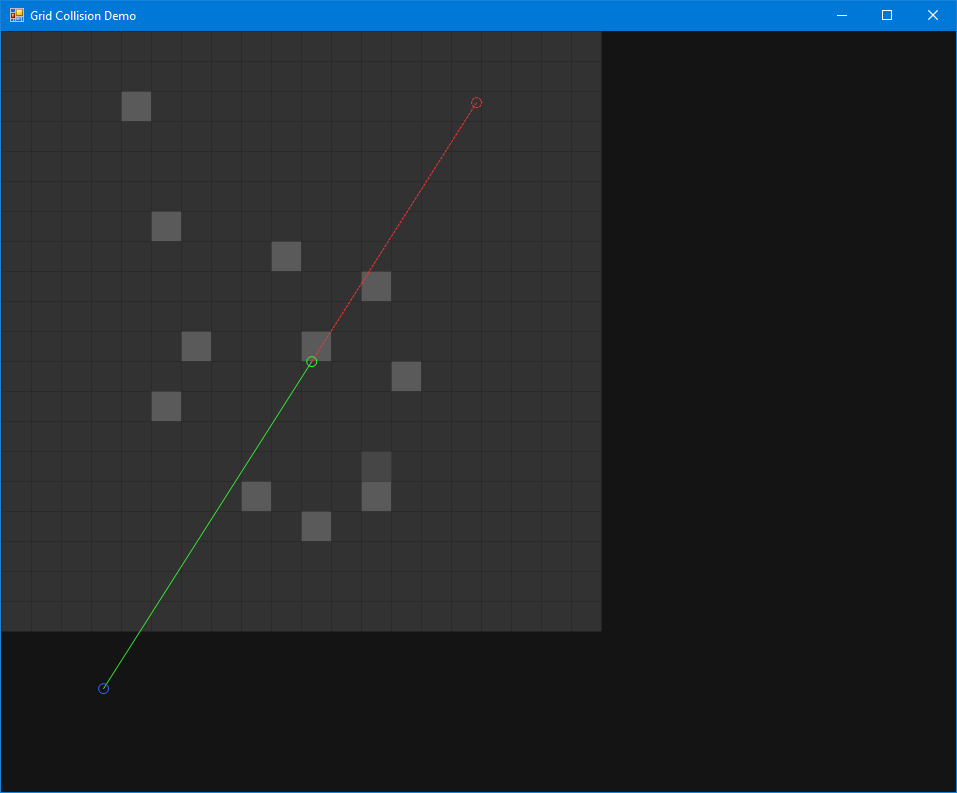
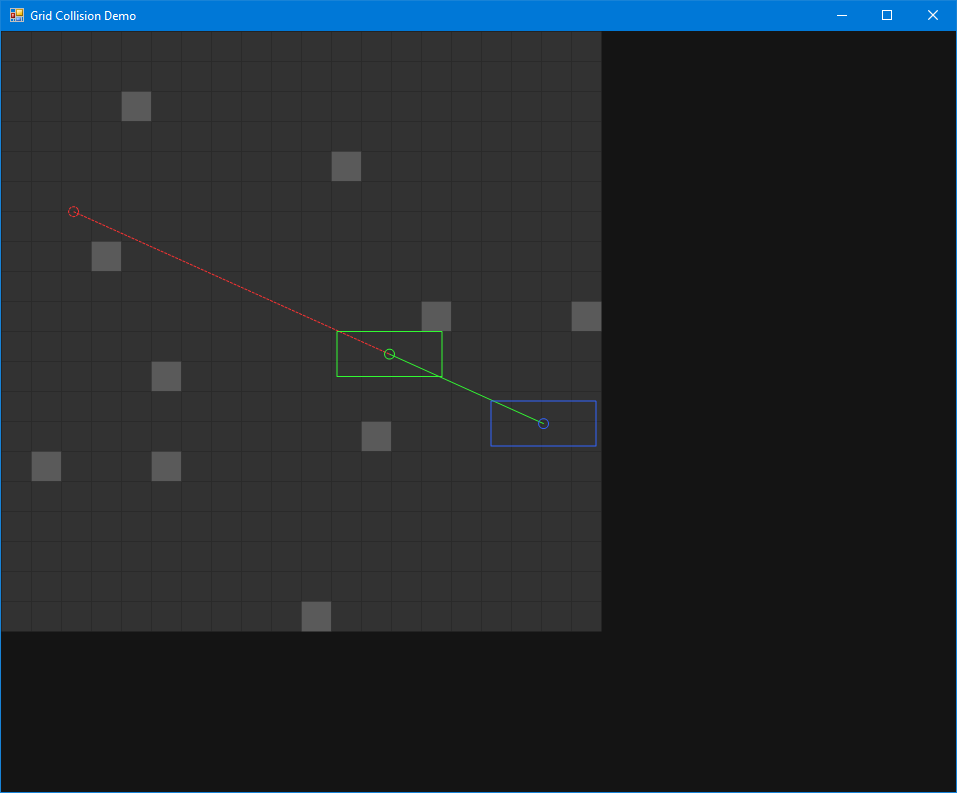
Implemented swept box collision.

diff --git a/Grid.cs b/Grid.cs
@@ -37,6 +37,159 @@ namespace GridCollisionDemo
         }
 
         /// <summary>
+        /// Sweeps the given axis-aligned box from the given starting point to the given ending point, returning whether anything
+        /// was hit and the location of the box when it was hit.
+        /// </summary>
+        /// <param name="startX">The X coordinate of the starting position of the box.</param>
+        /// <param name="startY">The Y coordinate of the starting position of the box.</param>
+        /// <param name="endX">The X coordinate of the position to sweep through.</param>
+        /// <param name="endY">The Y coordinate of the position to sweep through.</param>
+        /// <param name="width">The width of the axis-aligned box.</param>
+        /// <param name="height">The height of the axis-aligned box.</param>
+        /// <param name="hitX">The X position of the box when it first collided.</param>
+        /// <param name="hitY">The Y position of the box when it first collided.</param>
+        /// <returns>True if the given box collided with any filled cells, and false if there was no collision.</returns>
+        public bool SweepBox(float startX, float startY, float endX, float endY, float width, float height, out float hitX, out float hitY)
+        {
+            // Test the starting location
+            // NOTE: This can be skipped if you assume that the box's starting position has already been checked
+            // For example, when moving a character, we might assume that the last known position was not colliding
+            for (int cellY = (int)Math.Floor(startY - height * 0.5f); cellY <= (int)Math.Floor(startY + height * 0.5f); cellY++)
+            {
+                if (cellY >= 0 && cellY < this.Height)
+                {
+                    for (int cellX = (int)Math.Floor(startX - width * 0.5f); cellX <= (int)Math.Floor(startX + width * 0.5f); cellX++)
+                    {
+                        if (cellX >= 0 && cellX < this.Width && this.GetCell(cellX, cellY).Filled)
+                        {
+                            hitX = startX;
+                            hitY = startY;
+                            return true;
+                        }
+                    }
+                }
+            }
+
+            // Determine the direction of travel
+            // We don't use Math.Sign here because when the difference is zero, we still need a direction
+            // to choose which corner of the box to use.
+            int xdir = (endX - startX >= 0) ? 1 : -1;
+            int ydir = (endY - startY >= 0) ? 1 : -1;
+
+            // Determine the location of the corner in the direction of travel
+            // Then, determine which cell it will end up in and increment until we get there.
+            float cornerX = startX + width * 0.5f * xdir;
+            float cornerY = startY + height * 0.5f * ydir;
+            int cornerCellX = (int)Math.Floor(cornerX); // Which cell the corner is currently in
+            int cornerCellY = (int)Math.Floor(cornerY); // Which cell the corner is currently in
+            int endCellX = (int)Math.Floor(endX + width * 0.5f * xdir); // Which cell the corner will end up in
+            int endCellY = (int)Math.Floor(endY + height * 0.5f * ydir); // Which cell the corner will end up in
+
+            float dy; // The slope, or, how far in the y we move for each 1 unit of x
+            if (endX != startX)
+            {
+                dy = (endY - startY) / (endX - startX);
+            }
+            else
+            {
+                dy = Single.PositiveInfinity;
+            }
+
+            float dx; // How far in the x we move for each 1 unit of y
+            if (endY != startY)
+            {
+                dx = (endX - startX) / (endY - startY);
+            }
+            else
+            {
+                dx = Single.PositiveInfinity;
+            }
+
+            // Determine how far it will be until we hit the next cell in the X direction
+            int nextX = xdir >= 0 ? (int)Math.Floor(cornerX + 1.0f) : (int)Math.Floor(cornerX);
+            float stepX = nextX - cornerX; // How far in X to the next X coordinate
+            float toNextX = (float)Math.Sqrt(stepX * stepX + (stepX * dy) * (stepX * dy)); // How far along the line to the next X coordinate
+
+            // Determine how far it will be until we hit the next cell in the Y direction
+            int nextY = ydir >= 0 ? (int)Math.Floor(cornerY + 1.0f) : (int)Math.Floor(cornerY);
+            float stepY = nextY - cornerY; // How far in Y to the next Y coordinate
+            float toNextY = (float)Math.Sqrt(stepY * stepY + (stepY * dx) * (stepY * dx)); // How far along the line to the next Y coordinate
+
+            // Keep stepping until the corner reaches the destination cell
+            while (cornerCellX != endCellX || cornerCellY != endCellY)
+            {
+                // Determine whether the next X value is closer, or the next Y value
+                if (toNextX < toNextY)
+                {
+                    // Move to the next X value
+                    cornerCellX += xdir;
+                    cornerX += stepX;
+                    cornerY += stepX * dy;
+
+                    // Adjust our movement plan along the other axis
+                    stepY -= stepX * dy; // Convert how far we moved in X to how far we moved in Y
+                    toNextY -= toNextX;
+
+                    // Calculate for the new next X value
+                    nextX = cornerCellX + xdir;
+                    stepX = 1.0f * xdir;
+                    toNextX = (float)Math.Sqrt(1.0f * 1.0f + dy * dy);
+
+                    // Check the newly-occupied column of cells for collision
+                    int cellCount = 1 + Math.Abs(cornerCellY - (int)Math.Floor(cornerY - height * ydir));
+                    for (int i = 0; i < cellCount; i++)
+                    {
+                        int y = cornerCellY - i * ydir;
+                        if (cornerCellX >= 0 && cornerCellX < this.Width
+                            && y >= 0 && y < this.Height
+                            && this.GetCell(cornerCellX, y).Filled)
+                        {
+                            hitX = cornerX - width * 0.5f * xdir;
+                            hitY = cornerY - height * 0.5f * ydir;
+                            return true;
+                        }
+                    }
+                }
+                else
+                {
+                    // Move to the next Y value
+                    cornerCellY += ydir;
+                    cornerY += stepY;
+                    cornerX += stepY * dx;
+
+                    // Adjust our movement plan along the other axis
+                    stepX -= stepY * dx;
+                    toNextX -= toNextY;
+
+                    // Calculate for the next next Y value
+                    nextY = cornerCellY + ydir;
+                    stepY = 1.0f * ydir;
+                    toNextY = (float)Math.Sqrt(dx * dx + 1.0f * 1.0f);
+
+                    // Check the newly-occupied row of cells for collision
+                    int cellCount = 1 + Math.Abs(cornerCellX - (int)Math.Floor(cornerX - width * xdir));
+                    for (int i = 0; i < cellCount; i++)
+                    {
+                        int x = cornerCellX - i * xdir;
+                        if (cornerCellY >= 0 && cornerCellY < this.Height
+                            && x >= 0 && x < this.Width
+                            && this.GetCell(x, cornerCellY).Filled)
+                        {
+                            hitX = cornerX - width * 0.5f * xdir;
+                            hitY = cornerY - height * 0.5f * ydir;
+                            return true;
+                        }
+                    }
+                }
+            }
+
+            // If we reach here, no cells were hit
+            hitX = endX;
+            hitY = endY;
+            return false;
+        }
+
+        /// <summary>
         /// Test the given line segment for intersections with any <see cref="GridCell"/>s that are <see cref="GridCell.Filled"/>.
         /// </summary>
         /// <param name="startX">The X coordinate of the start of the line to test.</param>
@@ -65,8 +218,8 @@ namespace GridCollisionDemo
             float y = startY;
             int endCellX = (int)Math.Floor(endX);
             int endCellY = (int)Math.Floor(endY);
-            int xdir = Math.Sign(endX - startX);
-            int ydir = Math.Sign(endY - startY);
+            int xdir = (endX - startX >= 0) ? 1 : -1;
+            int ydir = (endY - startY >= 0) ? 1 : -1;
 
             float dy; // The slope, or, how far in the y we move for each 1 unit of x
             if (endX != startX)
@@ -93,6 +246,7 @@ namespace GridCollisionDemo
             float stepX = nextX - x; // How far in X to the next X coordinate
             float toNextX = (float)Math.Sqrt(stepX * stepX + (stepX * dy) * (stepX * dy)); // How far along the line to the next X coordinate
 
+            // Determine how far it will be until we hit the next cell in the Y direction
             int nextY = ydir >= 0 ? (int)Math.Floor(y + 1.0f) : (int)Math.Floor(y);
             float stepY = nextY - y; // How far in Y to the next Y coordinate
             float toNextY = (float)Math.Sqrt(stepY * stepY + (stepY * dx) * (stepY * dx)); // How far along the line to the next Y coordinate

diff --git a/DemoForm.cs b/DemoForm.cs
@@ -37,6 +37,7 @@ namespace GridCollisionDemo
         private Grid Grid;
         private DragMode CurrentDragMode = DragMode.None;
         private Point LastCursorPosition;
+        private bool UseBox = true;
 
         public DemoForm()
         {
@@ -60,7 +61,10 @@ namespace GridCollisionDemo
 
         private void UpdateResults()
         {
-            if (this.Grid.TestSegment(this.StartPosition.X, this.StartPosition.Y, this.DestinationPosition.X, this.DestinationPosition.Y, out float hitX, out float hitY))
+            float hitX;
+            float hitY;
+            bool hit = UseBox ? this.Grid.SweepBox(this.StartPosition.X, this.StartPosition.Y, this.DestinationPosition.X, this.DestinationPosition.Y, ObjectSize.Width, ObjectSize.Height, out hitX, out hitY) : this.Grid.TestSegment(this.StartPosition.X, this.StartPosition.Y, this.DestinationPosition.X, this.DestinationPosition.Y, out hitX, out hitY);
+            if (hit)
             {
                 this.EndPosition.X = hitX;
                 this.EndPosition.Y = hitY;
@@ -119,6 +123,12 @@ namespace GridCollisionDemo
             e.Graphics.DrawEllipse(StartPen, StartPosition.X * ViewScale - PointSize, StartPosition.Y * ViewScale - PointSize, PointSize * 2.0f, PointSize * 2.0f);
             e.Graphics.DrawEllipse(DestinationPen, DestinationPosition.X * ViewScale - PointSize, DestinationPosition.Y * ViewScale - PointSize, PointSize * 2.0f, PointSize * 2.0f);
             e.Graphics.DrawEllipse(EndPen, EndPosition.X * ViewScale - PointSize, EndPosition.Y * ViewScale - PointSize, PointSize * 2.0f, PointSize * 2.0f);
+
+            if (this.UseBox)
+            {
+                e.Graphics.DrawRectangle(StartPen, (StartPosition.X - ObjectSize.Width * 0.5f) * ViewScale, (StartPosition.Y - ObjectSize.Height * 0.5f) * ViewScale, ObjectSize.Width * ViewScale, ObjectSize.Height * ViewScale);
+                e.Graphics.DrawRectangle(EndPen, (EndPosition.X - ObjectSize.Width * 0.5f) * ViewScale, (EndPosition.Y - ObjectSize.Height * 0.5f) * ViewScale, ObjectSize.Width * ViewScale, ObjectSize.Height * ViewScale);
+            }
         }
 
         private void DemoForm_Resize(object sender, EventArgs e)
@@ -202,6 +212,15 @@ namespace GridCollisionDemo
             this.CurrentDragMode = DragMode.None;
 
             LastCursorPosition = e.Location;
+        }
+
+        private void DemoForm_KeyDown(object sender, KeyEventArgs e)
+        {
+            if (e.KeyCode == Keys.Space)
+            {
+                this.UseBox = !this.UseBox;
+                this.UpdateResults();
+            }
         }
     }
 }

diff --git a/DemoForm.Designer.cs b/DemoForm.Designer.cs
@@ -42,6 +42,7 @@ namespace GridCollisionDemo
             this.Text = "Grid Collision Demo";
             this.Load += new System.EventHandler(this.DemoForm_Load);
             this.Paint += new System.Windows.Forms.PaintEventHandler(this.DemoForm_Paint);
+            this.KeyDown += new System.Windows.Forms.KeyEventHandler(this.DemoForm_KeyDown);
             this.MouseDown += new System.Windows.Forms.MouseEventHandler(this.DemoForm_MouseDown);
             this.MouseMove += new System.Windows.Forms.MouseEventHandler(this.DemoForm_MouseMove);
             this.MouseUp += new System.Windows.Forms.MouseEventHandler(this.DemoForm_MouseUp);

diff --git a/README.md b/README.md
@@ -3,13 +3,24 @@
 
 ![Screenshot](screenshot.png)
 
-This project demonstrates how to check for Segment vs. Grid and AABB vs. Grid collision.
+This project demonstrates how to check for Segment vs. Grid and Swept AABB vs. Grid collision.
 
 Demo Usage
 ----------
 
-TThis demo project is a sample Grid implementation and a Windows Forms window for interacting with it.
+This demo project is a sample Grid implementation and a Windows Forms window for interacting with it.
 
-Click anywhere in the grid space to toggle whether that cell is filled, and click and drag on the start and destination points to move them around.
+Click anywhere in the grid space to toggle whether that cell is filled, and click and drag on the start and destination points to move them around. Press the spacebar to switch between segment testing and AABB testing.
 
-The solid green segment shows the travel of the segment, and the dashed red segment shows the part of the segment that was obscured by a hit.
+The solid green segment shows the travel of the segment / box, and the dashed red segment shows the part of the segment / box sweep that was obscured by a collision.
+
+Algorithm Notes
+---------------
+
+The segment test in `Grid.TestSegment(...)` is just the raycasting algorithm described in [A Fast Voxel Traversal Algorithm for Ray Tracing](http://www.cse.yorku.ca/~amana/research/grid.pdf) by Amanatides & Woo, but implemented for only two dimensions.
+
+The swept AABB test in `Grid.SweepBox(...)` repurposes the above concept of stepping to the nearest edge intersection by checking the corner of the box in the direction of travel, but this time checks the row/column about to be entered by the box each step.
+
+This algorithm has a few interesting properties:
+ - Checking whether the start position collides can be completely skipped in many cases, e.g. if the box represents a character, you can probably assume that they aren't inside any filled cells at the start of the sweep. This saves lots of time when the sweep is repeated often, such as simulating a character every frame.
+ - The number of loop iterations and grid accesses is proportional to the distance that the box travels before colliding. While this seems like it exposes the possibility of running arbitrarily long, it also means that boxes which sweep small distances usually iterate zero times through the loop. We can expect this to be rather common, for example, when simulating objects in small, discrete time-steps.
